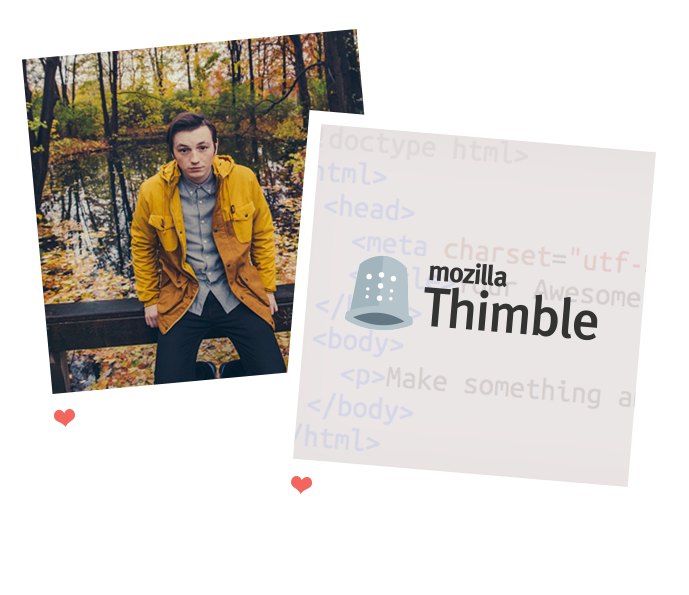
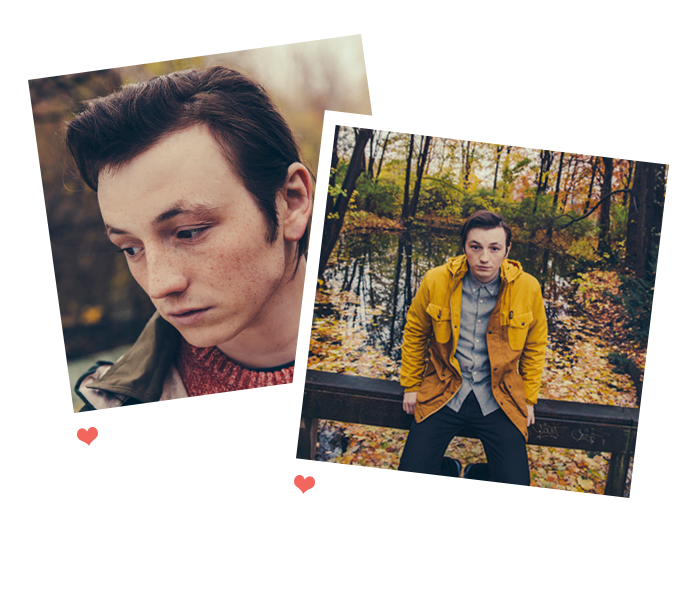
new imgs header, submit section

diff --git a/mtds/index.html b/mtds/index.html
@@ -68,7 +68,7 @@
                 <div class="content">
                     <div class="content-home">
                         <div class="title-section">
-                            <p class="title-competition">Make your *own*<br /> <strong>website</strong> with<br /> <strong>Lewis Watson &amp;<br />Mozilla Thimble!</strong></p>
+                            <p class="title-competition">Make your *own*<br /> <strong>website</strong> with<br /> <strong>Lewis Watson!</strong></p>
                             <a class="call-to-action" href="#description">
                                 How it works?
                             </a>
@@ -138,7 +138,7 @@
 
                         <div class="steps">
                             <p class="icon-steps"><i class="fa fa-code"></i></p>
-                            <h4><span class="number-steps">2.</span> Remix it Mozilla Thimble</h4>
+                            <h4><span class="number-steps">2.</span> Remix it with Mozilla Thimble</h4>
                             <p link-flip>Lorem ipsum dolor sit amet, consectetur adipisicing elit, sed do eiusmod.</p>
                             <a  href="#photos">
                                 <p class="call-to-action-steps">Go to Mozilla Thimble</p>
@@ -433,7 +433,7 @@
                         </label>
 
                         <label>
-                            <span>Email</span><br />
+                            <span>Email</span><p class="detail-info-form">(If you do not have your own email, then you can use your parents email address)</p><br />
                             <input id="email" type="email" name="email" placeholder="" /><br />
                         </label>
                         

diff --git a/mtds/style.css b/mtds/style.css
@@ -221,7 +221,7 @@ nav a#pull {
 }
 
 #description{
-    height: 1100px;
+    height: 750px;
 }
 
 #prizes{
@@ -264,7 +264,7 @@ nav a#pull {
 }
 
 .title-competition{
-    font-size: 2.5em;
+    font-size: 2.7em;
     color: #f4f0ed;
     font-family: 'museo_slab500', sans-serif;
     text-shadow: 3px 3px #bd4c45;
@@ -361,6 +361,7 @@ nav a#pull {
     padding: 0.2% 1.6% 4% 2%;
     margin-right: 1%;
     float: left;
+    margin-top: 7%;
 }
 
 .steps h4{
@@ -439,6 +440,7 @@ nav a#pull {
     border: 1px solid #d6d0c7;
     float: left;
     margin-left: 4%;
+    margin-top: 3%;
 }
 
 .icon-prizes{
@@ -696,6 +698,12 @@ nav a#pull {
     padding: 20px 50px 20px 50px;
     background-color: #f2665e;
     cursor: pointer;
+}
+
+.detail-info-form{
+    font-size: 0.2em;
+    margin: 3 3 0 3;
+    padding: 3 3 0 3;
 }
 
 
